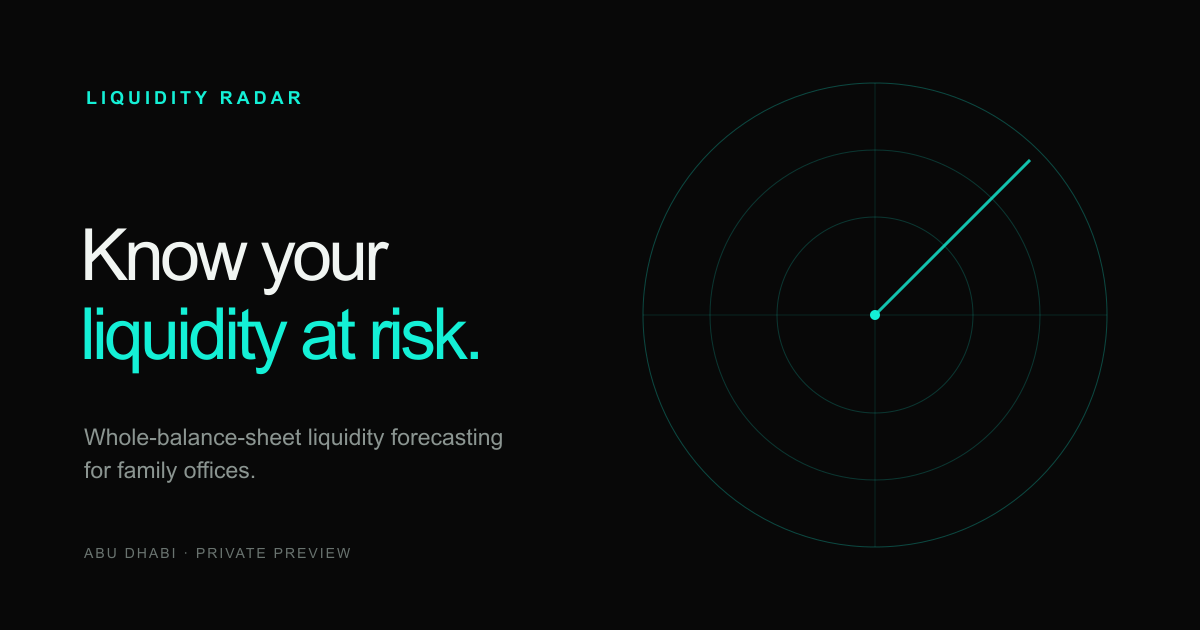
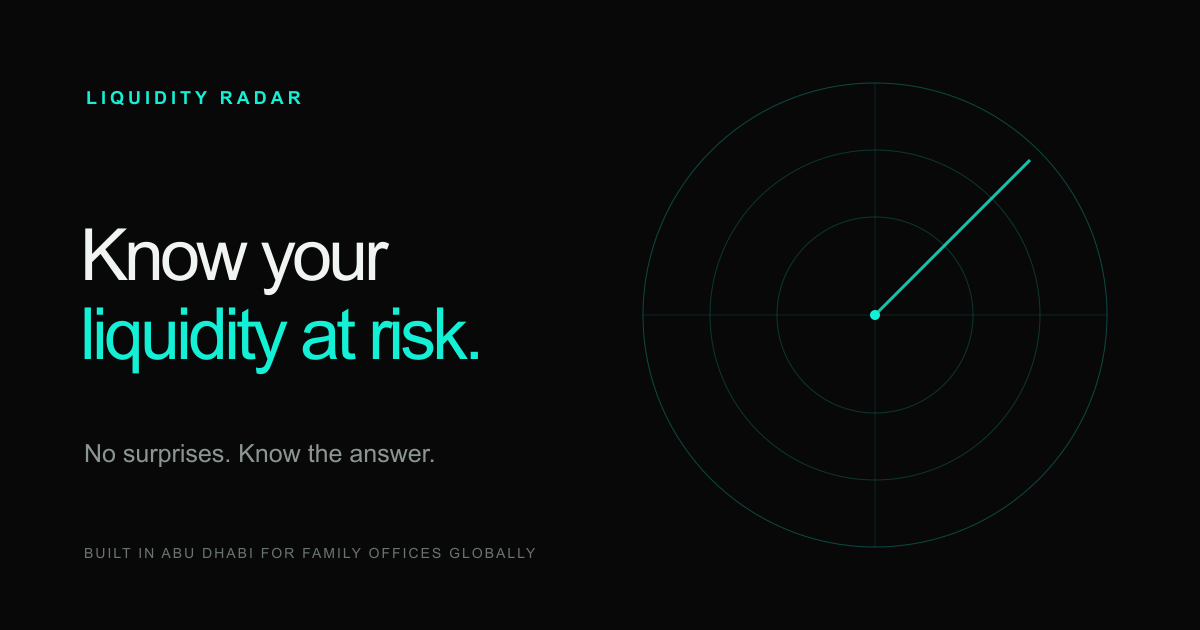
Refresh link preview copy and artwork

Changed region(s): [[0.0617, 0.6635, 0.4317, 0.754], [0.1233, 0.8746, 0.4317, 0.9048], [0.0617, 0.8746, 0.0925, 0.9048]]

diff --git a/index.html b/index.html
@@ -3,20 +3,20 @@
   <head>
     <meta charset="utf-8">
     <meta name="viewport" content="width=device-width, initial-scale=1">
-    <title>Liquidity Radar — Know your liquidity at risk.</title>
-    <meta name="description" content="Whole-balance-sheet liquidity forecasting for family offices.">
+    <title>Liquidity Radar · Know your liquidity at risk.</title>
+    <meta name="description" content="No surprises. Know the answer.">
     <meta name="theme-color" content="#080808">
     <meta property="og:type" content="website">
     <meta property="og:url" content="https://liquidityradar.io/">
-    <meta property="og:title" content="Liquidity Radar — Know your liquidity at risk.">
-    <meta property="og:description" content="Whole-balance-sheet liquidity forecasting for family offices.">
+    <meta property="og:title" content="Liquidity Radar · Know your liquidity at risk.">
+    <meta property="og:description" content="No surprises. Know the answer.">
     <meta property="og:image" content="https://liquidityradar.io/assets/og-image.png">
     <meta property="og:image:width" content="1200">
     <meta property="og:image:height" content="630">
-    <meta property="og:image:alt" content="Liquidity Radar — Know your liquidity at risk.">
+    <meta property="og:image:alt" content="Liquidity Radar · Know your liquidity at risk.">
     <meta name="twitter:card" content="summary_large_image">
-    <meta name="twitter:title" content="Liquidity Radar — Know your liquidity at risk.">
-    <meta name="twitter:description" content="Whole-balance-sheet liquidity forecasting for family offices.">
+    <meta name="twitter:title" content="Liquidity Radar · Know your liquidity at risk.">
+    <meta name="twitter:description" content="No surprises. Know the answer.">
     <meta name="twitter:image" content="https://liquidityradar.io/assets/og-image.png">
     <link rel="canonical" href="https://liquidityradar.io/">
     <link rel="icon" href="assets/favicon.svg" type="image/svg+xml">
